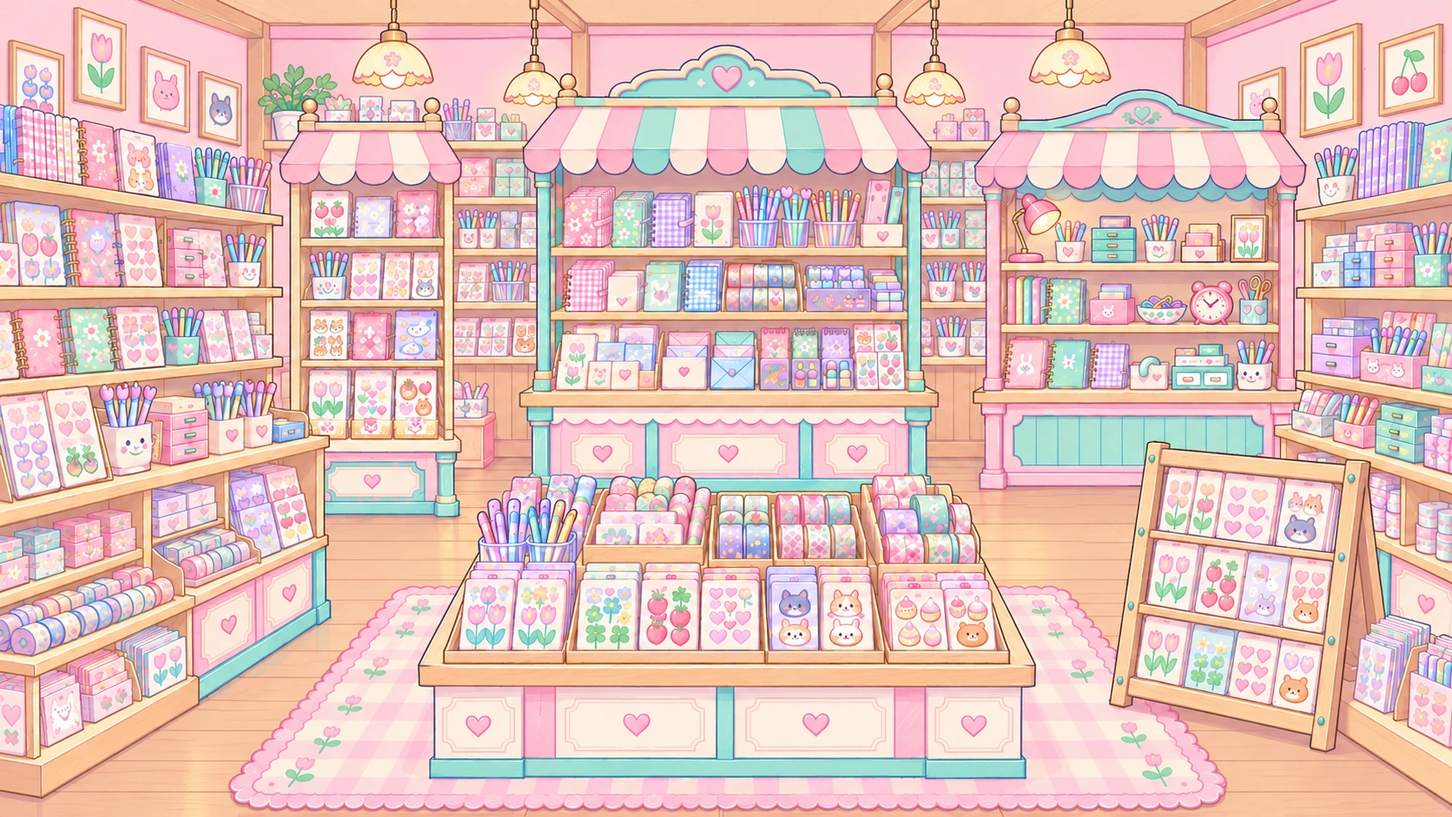
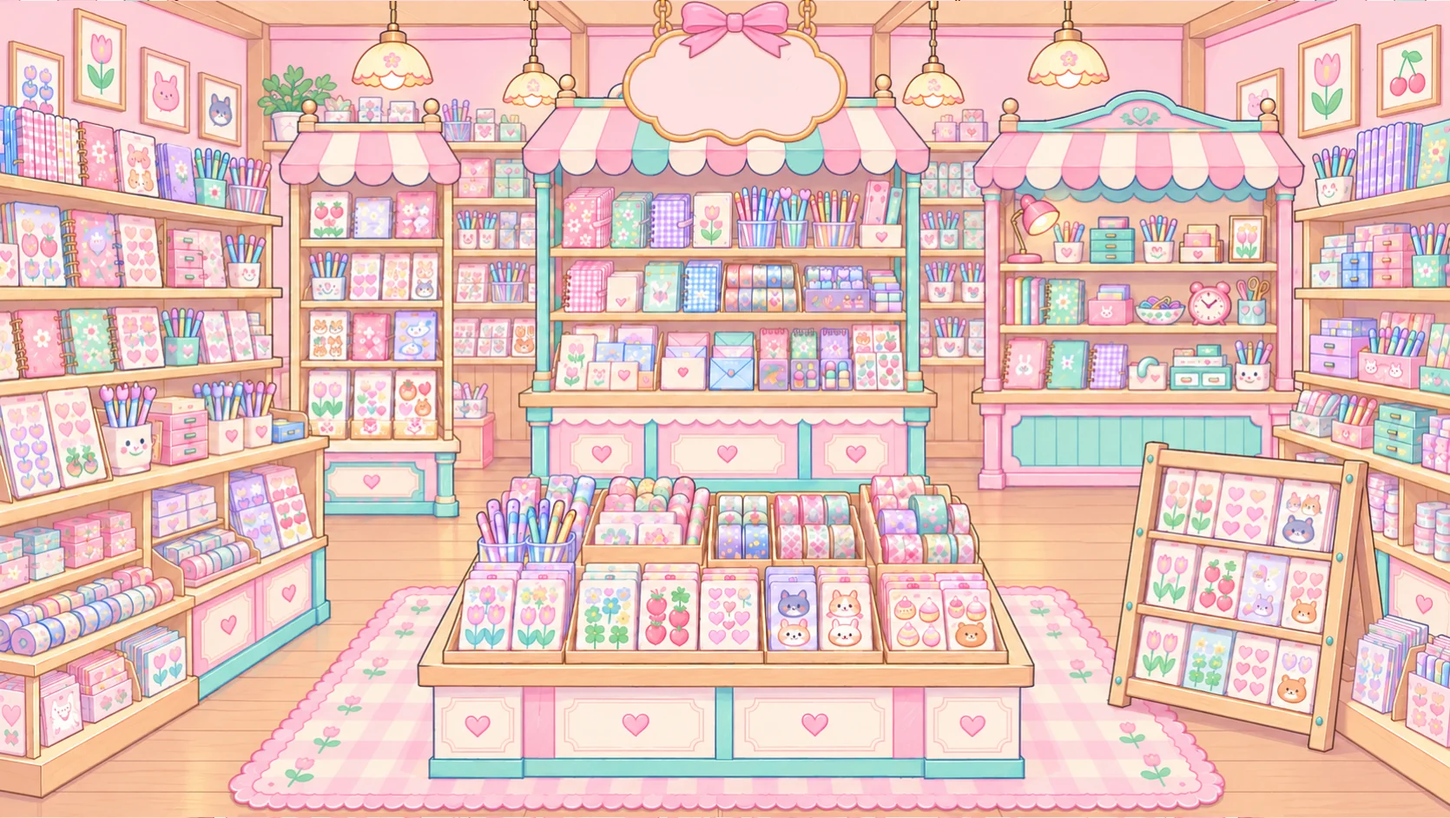
Add files via upload

diff --git a/index.html b/index.html
@@ -18,23 +18,23 @@
     <!-- html2canvas (PNG 저장용) -->
     <script src="https://cdnjs.cloudflare.com/ajax/libs/html2canvas/1.4.1/html2canvas.min.js"></script>
 
-    <script src="js/features.js?v=20261009-1131"></script>   <!-- 🔓 기능 공개 스위치 (다른 것보다 먼저) -->
-    <script src="js/util.js?v=20261009-1131"></script>   <!-- 🧰 공용 도구 (htmlEsc · josa · lsGet · lsSet) -->
-    <script src="js/onlyone.js?v=20261009-1131"></script>   <!-- 🔒 한 기기에 다이어리 하나만 (먼저 연 창만 · 다른 것보다 먼저) -->
+    <script src="js/features.js?v=20261009-1132"></script>   <!-- 🔓 기능 공개 스위치 (다른 것보다 먼저) -->
+    <script src="js/util.js?v=20261009-1132"></script>   <!-- 🧰 공용 도구 (htmlEsc · josa · lsGet · lsSet) -->
+    <script src="js/onlyone.js?v=20261009-1132"></script>   <!-- 🔒 한 기기에 다이어리 하나만 (먼저 연 창만 · 다른 것보다 먼저) -->
     <link rel="preload" as="image" href="img/gate-wide.webp?v=20261009-819" media="(min-aspect-ratio: 1/1)">   <!-- 🚪 로그인 문 그림을 먼저 받아요 (켤 때 바탕색만 잠깐 보이는 것 줄이기 · 도련 10-29) -->
     <link rel="preload" as="image" href="img/gate-tall.webp?v=20261009-819" media="(max-aspect-ratio: 1/1)">
-    <link rel="stylesheet" href="css/style.css?v=20261009-1131">
-    <link rel="stylesheet" href="css/dakku.css?v=20261009-1131">
-    <link rel="stylesheet" href="css/anime.css?v=20261009-1131">
-    <link rel="stylesheet" href="css/calroom.css?v=20261009-1131">   <!-- 📅 달력 (💻 📲 · js/calroom.js) -->   <!-- 🎬 애니 스타일 (맨 뒤 · js/anime.js) -->
-    <link rel="stylesheet" href="css/postroom.css?v=20261009-1131">   <!-- 📮 우체통 (💻 📲 · js/postroom.js) -->
-    <link rel="stylesheet" href="css/world.css?v=20261009-1131">   <!-- 🌳 말랑 광장 (임시 2.5D · js/world.js) -->
-    <link rel="stylesheet" href="css/deskgd.css?v=20261009-1131">   <!-- 🪑 책상 모드 문구 (js/deskgd.js) -->
-    <link rel="stylesheet" href="css/craft.css?v=20261009-1131">   <!-- 🎨 다꾸 작업실 (js/craft.js) -->
-    <link rel="stylesheet" href="css/tarotroom.css?v=20261009-1131">   <!-- 🔮 타로카페 (💻 📲 · js/tarotroom.js) -->
-    <link rel="stylesheet" href="css/arcroom.css?v=20261009-1131">   <!-- 🕹 뿅뿅오락실 장소 (💻 📲 · js/arcroom.js) -->
-    <link rel="stylesheet" href="css/gachascene.css?v=20261009-1131">   <!-- 🏪 문방구 앞 캡슐기계 (💻 📲 · js/gacha.js gcSceneBuild) -->
-    <link rel="stylesheet" href="css/stktray.css?v=20261009-1131">   <!-- 🍽 오늘 쓸 스티커 (js/stktray.js) -->
+    <link rel="stylesheet" href="css/style.css?v=20261009-1132">
+    <link rel="stylesheet" href="css/dakku.css?v=20261009-1132">
+    <link rel="stylesheet" href="css/anime.css?v=20261009-1132">
+    <link rel="stylesheet" href="css/calroom.css?v=20261009-1132">   <!-- 📅 달력 (💻 📲 · js/calroom.js) -->   <!-- 🎬 애니 스타일 (맨 뒤 · js/anime.js) -->
+    <link rel="stylesheet" href="css/postroom.css?v=20261009-1132">   <!-- 📮 우체통 (💻 📲 · js/postroom.js) -->
+    <link rel="stylesheet" href="css/world.css?v=20261009-1132">   <!-- 🌳 말랑 광장 (임시 2.5D · js/world.js) -->
+    <link rel="stylesheet" href="css/deskgd.css?v=20261009-1132">   <!-- 🪑 책상 모드 문구 (js/deskgd.js) -->
+    <link rel="stylesheet" href="css/craft.css?v=20261009-1132">   <!-- 🎨 다꾸 작업실 (js/craft.js) -->
+    <link rel="stylesheet" href="css/tarotroom.css?v=20261009-1132">   <!-- 🔮 타로카페 (💻 📲 · js/tarotroom.js) -->
+    <link rel="stylesheet" href="css/arcroom.css?v=20261009-1132">   <!-- 🕹 뿅뿅오락실 장소 (💻 📲 · js/arcroom.js) -->
+    <link rel="stylesheet" href="css/gachascene.css?v=20261009-1132">   <!-- 🏪 문방구 앞 캡슐기계 (💻 📲 · js/gacha.js gcSceneBuild) -->
+    <link rel="stylesheet" href="css/stktray.css?v=20261009-1132">   <!-- 🍽 오늘 쓸 스티커 (js/stktray.js) -->
     <script src="https://accounts.google.com/gsi/client" async defer></script>
 </head>
 <body>
@@ -990,120 +990,120 @@
     </div>
 
     <!-- 📦 코드 파일 (순서 중요 · 업데이트할 때 ?v= 뒤 숫자를 바꾸면 모든 사용자가 새 파일을 받아요) -->
-    <script src="js/localtest.js?v=20261009-1131"></script>   <!-- 💻 내 컴퓨터(localhost)에서만 : 로그인 없이 테스트 -->
-    <script src="js/trash.js?v=20261009-1131"></script>   <!-- 🗑 휴지통 : 지운 것 · 덮어쓰기 전 모습 30일 -->
-    <script src="js/backup.js?v=20261009-1131"></script>   <!-- 📦 백업 · 📥 불러오기 : 말랑달콤 폴더 통째로 zip -->
-    <script src="js/devsave.js?v=20261009-1131"></script>   <!-- 📁 로그인 없이 : 이 기기의 말랑달콤 폴더에 저장 -->
+    <script src="js/localtest.js?v=20261009-1132"></script>   <!-- 💻 내 컴퓨터(localhost)에서만 : 로그인 없이 테스트 -->
+    <script src="js/trash.js?v=20261009-1132"></script>   <!-- 🗑 휴지통 : 지운 것 · 덮어쓰기 전 모습 30일 -->
+    <script src="js/backup.js?v=20261009-1132"></script>   <!-- 📦 백업 · 📥 불러오기 : 말랑달콤 폴더 통째로 zip -->
+    <script src="js/devsave.js?v=20261009-1132"></script>   <!-- 📁 로그인 없이 : 이 기기의 말랑달콤 폴더에 저장 -->
     <script src="https://malang-img.pages.dev/prod.js"></script>   <!-- 🧁 상품 목록 (상품공방 · 서버) -->
-    <script src="js/prod.js?v=20261009-1131"></script>   <!-- 🧁 상품 목록 읽기 (prodList) -->
-    <script src="js/gdpic.js?v=20261009-1131"></script>   <!-- 🧁 문구 그림 = 상품공방 그림 + 속성 그대로 (gdPic · 앱은 모양을 그리지 않아요) -->
-    <script src="js/drive.js?v=20261009-1131"></script>
-    <script src="js/desk.js?v=20261009-1131"></script>   <!-- 🪑 책상 꾸미기 (💻 PC · 아이패드만) -->
-    <script src="js/deskpaint.js?v=20261009-1131"></script>
-    <script src="js/deskcustom.js?v=20261009-1131"></script>   <!-- 🎨 소품 꾸미기 창 (색칠 + 불빛 · 숫자 · 알람 · 사진 · 누르는 곳) -->   <!-- 🎨 책상 소품 꾸미기 (칠하기 · 이미지 붙이기) -->
-    <script src="js/coll.js?v=20261009-1131"></script>
-    <script src="js/snap.js?v=20261009-1131"></script>   <!-- 📦 받은 상품 사본 (드라이브 · 새 모습 · 꼭 고침) -->
-    <script src="js/sound.js?v=20261009-1131"></script>
-    <script src="js/app.js?v=20261009-1131"></script>
-    <script src="js/page.js?v=20261009-1131"></script>
-    <script src="js/elements.js?v=20261009-1131"></script>
-    <script src="js/tapmenu.js?v=20261009-1131"></script>
-    <script src="js/settings.js?v=20261009-1131"></script>
-    <script src="js/patterns.js?v=20261009-1131"></script>
+    <script src="js/prod.js?v=20261009-1132"></script>   <!-- 🧁 상품 목록 읽기 (prodList) -->
+    <script src="js/gdpic.js?v=20261009-1132"></script>   <!-- 🧁 문구 그림 = 상품공방 그림 + 속성 그대로 (gdPic · 앱은 모양을 그리지 않아요) -->
+    <script src="js/drive.js?v=20261009-1132"></script>
+    <script src="js/desk.js?v=20261009-1132"></script>   <!-- 🪑 책상 꾸미기 (💻 PC · 아이패드만) -->
+    <script src="js/deskpaint.js?v=20261009-1132"></script>
+    <script src="js/deskcustom.js?v=20261009-1132"></script>   <!-- 🎨 소품 꾸미기 창 (색칠 + 불빛 · 숫자 · 알람 · 사진 · 누르는 곳) -->   <!-- 🎨 책상 소품 꾸미기 (칠하기 · 이미지 붙이기) -->
+    <script src="js/coll.js?v=20261009-1132"></script>
+    <script src="js/snap.js?v=20261009-1132"></script>   <!-- 📦 받은 상품 사본 (드라이브 · 새 모습 · 꼭 고침) -->
+    <script src="js/sound.js?v=20261009-1132"></script>
+    <script src="js/app.js?v=20261009-1132"></script>
+    <script src="js/page.js?v=20261009-1132"></script>
+    <script src="js/elements.js?v=20261009-1132"></script>
+    <script src="js/tapmenu.js?v=20261009-1132"></script>
+    <script src="js/settings.js?v=20261009-1132"></script>
+    <script src="js/patterns.js?v=20261009-1132"></script>
     <!-- 🌟 카페에서 받아 등록한 사용자 패턴 (pattern-tool.html 로 만들어요 · 없거나 깨져도 다이어리는 정상 동작) -->
     <script src="js/community-patterns.js"></script>
     <!-- 🌟 카페에서 받아 등록한 모두의 스킨 (pattern-tool.html 로 만들어요 · 없거나 깨져도 다이어리는 정상 동작) -->
     <script src="js/community-skins.js"></script>
-    <script src="js/pattern-recipe.js?v=20261009-1131"></script>
-    <script src="js/skins.js?v=20261009-1131"></script>
-    <script src="js/bin.js?v=20261009-1131"></script>   <!-- 🗑 버린 상품 : 휴지통 30일 · 되살리기 · 영구 삭제 (모든 상품 공통) -->
-    <script src="js/dyyear.js?v=20261009-1131"></script>
-    <script src="js/bgown.js?v=20261009-1131"></script>
-    <script src="js/deskskin.js?v=20261009-1131"></script>   <!-- 🧱 벽지 · 🪵 책상 (책상 화면 · 샵 책상 소품 · 소품함) -->   <!-- 🌈 배경지 = 상품 (샵에서 받기 · 보관함 · 버리기) -->   <!-- 📔 기본 다이어리 = 1년짜리 날짜 다이어리 · 해마다 기본상품 샵에서 받기 · 다이어리 보관소 -->
-    <script src="js/dkguide.js?v=20261009-1131"></script>   <!-- 🩷 처음 쓰는 사람용 다꾸하는 법 메모 -->
-    <script src="js/dymaker.js?v=20261009-1131"></script>
-    <script src="js/pattern-maker.js?v=20261009-1131"></script>
-    <script src="js/skinstudio.js?v=20261009-1131"></script>
-    <script src="js/theme-skins.js?v=20261009-1131"></script>
-    <script src="js/doll-art.js?v=20261009-1131"></script>
-    <script src="js/doll-render.js?v=20261009-1131"></script>
-    <script src="js/doll-store.js?v=20261009-1131"></script>
-    <script src="js/doll-room.js?v=20261009-1131"></script>
-    <script src="js/doll-move.js?v=20261009-1131"></script>
-    <script src="js/glrun.js?v=20261009-1131"></script>
-    <script src="js/char-move.js?v=20261009-1131"></script>
-    <script src="js/puppet.js?v=20261009-1131"></script>
-    <script src="js/service.js?v=20261009-1131"></script>
+    <script src="js/pattern-recipe.js?v=20261009-1132"></script>
+    <script src="js/skins.js?v=20261009-1132"></script>
+    <script src="js/bin.js?v=20261009-1132"></script>   <!-- 🗑 버린 상품 : 휴지통 30일 · 되살리기 · 영구 삭제 (모든 상품 공통) -->
+    <script src="js/dyyear.js?v=20261009-1132"></script>
+    <script src="js/bgown.js?v=20261009-1132"></script>
+    <script src="js/deskskin.js?v=20261009-1132"></script>   <!-- 🧱 벽지 · 🪵 책상 (책상 화면 · 샵 책상 소품 · 소품함) -->   <!-- 🌈 배경지 = 상품 (샵에서 받기 · 보관함 · 버리기) -->   <!-- 📔 기본 다이어리 = 1년짜리 날짜 다이어리 · 해마다 기본상품 샵에서 받기 · 다이어리 보관소 -->
+    <script src="js/dkguide.js?v=20261009-1132"></script>   <!-- 🩷 처음 쓰는 사람용 다꾸하는 법 메모 -->
+    <script src="js/dymaker.js?v=20261009-1132"></script>
+    <script src="js/pattern-maker.js?v=20261009-1132"></script>
+    <script src="js/skinstudio.js?v=20261009-1132"></script>
+    <script src="js/theme-skins.js?v=20261009-1132"></script>
+    <script src="js/doll-art.js?v=20261009-1132"></script>
+    <script src="js/doll-render.js?v=20261009-1132"></script>
+    <script src="js/doll-store.js?v=20261009-1132"></script>
+    <script src="js/doll-room.js?v=20261009-1132"></script>
+    <script src="js/doll-move.js?v=20261009-1132"></script>
+    <script src="js/glrun.js?v=20261009-1132"></script>
+    <script src="js/char-move.js?v=20261009-1132"></script>
+    <script src="js/puppet.js?v=20261009-1132"></script>
+    <script src="js/service.js?v=20261009-1132"></script>
     <!-- 🎁 랜덤박스 (없어도 다이어리는 정상 동작) -->
-    <script src="js/gacha.js?v=20261009-1131"></script>
-    <script src="js/presence.js?v=20261009-1131"></script>
-    <script src="js/fbase.js?v=20261009-1131"></script>   <!-- 🔥 파이어스토어 연결 (🔔 선물 벨 · 📞 전화기) -->
-    <script src="js/fphone.js?v=20261009-1131"></script>   <!-- 📞 반짝이 피처폰 메신저 (로그인 회원끼리) -->
+    <script src="js/gacha.js?v=20261009-1132"></script>
+    <script src="js/presence.js?v=20261009-1132"></script>
+    <script src="js/fbase.js?v=20261009-1132"></script>   <!-- 🔥 파이어스토어 연결 (🔔 선물 벨 · 📞 전화기) -->
+    <script src="js/fphone.js?v=20261009-1132"></script>   <!-- 📞 반짝이 피처폰 메신저 (로그인 회원끼리) -->
     <!-- 🎵 배경음악 (없어도 다이어리는 정상 동작) -->
-    <script src="js/bgm.js?v=20261009-1131"></script>
+    <script src="js/bgm.js?v=20261009-1132"></script>
     <!-- 🔮 포춘카드 (없어도 다이어리는 정상 동작) -->
-    <script src="js/fortune.js?v=20261009-1131"></script>
+    <script src="js/fortune.js?v=20261009-1132"></script>
     <!-- 🕹 오락실 (없어도 다이어리는 정상 동작) -->
-    <script src="js/arcade.js?v=20261009-1131"></script>
-    <script src="js/hof.js?v=20261009-1131"></script>
+    <script src="js/arcade.js?v=20261009-1132"></script>
+    <script src="js/hof.js?v=20261009-1132"></script>
     <!-- 🌙 꿈해몽 (상징 사전 js/dream-data.js 는 꿈해몽을 열 때 불러와요 · 없어도 다이어리는 정상 동작) -->
-    <script src="js/ritual.js?v=20261009-1131"></script>
-    <script src="js/dream.js?v=20261009-1131"></script>
+    <script src="js/ritual.js?v=20261009-1132"></script>
+    <script src="js/dream.js?v=20261009-1132"></script>
     <!-- 🎍 토정비결 (음력 계산 js/lib/korean-lunar-calendar.min.js 는 토정비결을 열 때 불러와요 · 없어도 다이어리는 정상 동작) -->
-    <script src="js/tojeong.js?v=20261009-1131"></script>
-    <script src="js/plant.js?v=20261009-1131"></script>
-    <script src="js/attend.js?v=20261009-1131"></script>
-    <script src="js/tape.js?v=20261009-1131"></script>
-    <script src="js/leafpad.js?v=20261009-1131"></script>
-    <script src="js/leafmaker.js?v=20261009-1131"></script>
-    <script src="js/draw.js?v=20261009-1131"></script>
-    <script src="js/pencase.js?v=20261009-1131"></script>
-    <script src="js/frame.js?v=20261009-1131"></script>
-    <script src="js/season.js?v=20261009-1131"></script>
-    <script src="js/lock.js?v=20261009-1131"></script>
-    <script src="js/cycle.js?v=20261009-1131"></script>
-    <script src="js/month.js?v=20261009-1131"></script>
-    <script src="js/stamp.js?v=20261009-1131"></script>
-    <script src="js/search.js?v=20261009-1131"></script>
-    <script src="js/dday.js?v=20261009-1131"></script>
-    <script src="js/calroom.js?v=20261009-1131"></script>   <!-- 📅 달력 : 출석 · 생리 · D-day 한 장 (💻 📲) -->
-    <script src="js/postroom.js?v=20261009-1131"></script>   <!-- 📮 우체통 : 익명 편지함 · 건의함 (💻 📲) -->
-    <script src="js/world.js?v=20261009-1131"></script>   <!-- 🌳 말랑 광장 : 임시 2.5D 월드 · 혼자 걷기 (features world) -->
-    <script src="js/deskgd.js?v=20261009-1131"></script>   <!-- 🪑 책상 모드 문구 : ✏ 펜꽂이가 다가와요 · 🗄 문구함 서랍 (💻 📲) -->
-    <script src="js/desktape.js?v=20261009-1131"></script>   <!-- 🎀 마테 정리함 : 마스킹테이프를 세워 두고 골라 써요 (💻 📲 책상) -->
-    <script src="js/desklights.js?v=20261009-1131"></script>   <!-- 💡 전구줄 : 출렁이는 줄 · 전구 · 빛 · 깜빡임 (책상 소품 lights) -->
-    <script src="js/craft.js?v=20261009-1131"></script>   <!-- 🎨 다꾸 작업실 : 스티커 · 배경지 만들기 한 곳에 (💻 📲 📱) -->
-    <script src="js/tarotroom.js?v=20261009-1131"></script>   <!-- 🔮 타로카페 : 카드 다섯 장 = 메뉴 (💻 📲) -->
-    <script src="js/arcroom.js?v=20261009-1131"></script>   <!-- 🕹 뿅뿅오락실 장소 : 오락기 화면마다 게임 (💻 📲) -->
-    <script src="js/show.js?v=20261009-1131"></script>
-    <script src="js/press.js?v=20261009-1131"></script>
-    <script src="js/photobooth.js?v=20261009-1131"></script>
-    <script src="js/stickermaker.js?v=20261009-1131"></script>
-    <script src="js/stickerpeel.js?v=20261009-1131"></script>
-    <script src="js/stkedit.js?v=20261009-1131"></script>   <!-- 🎨 스티커 다듬기 : 씰 종이에서 떼기 전에 색 · 뒤집기 · 자르기 · 지우개 · 글씨 · 반짝이 -->
-    <script src="js/stkcut.js?v=20261009-1131"></script>   <!-- ✂ 스티커 자르기 : 꾹 누르기 메뉴 → 스티커 칼로 가로질러 그어 두 조각 -->
-    <script src="js/ruler.js?v=20261009-1131"></script>   <!-- 📏 자 : 펜꽂이에서 뽑아 페이지에 깔아 둬요 · 칼 · 색연필을 대면 반듯하게 · 진짜 cm -->
-    <script src="js/piecebag.js?v=20261009-1131"></script>
-    <script src="js/dakku.js?v=20261009-1131"></script>
-    <script src="js/papermaker.js?v=20261009-1131"></script>
-    <script src="js/stk-basic.js?v=20261009-1131"></script>
-    <script src="js/peelfx.js?v=20261009-1131"></script>
-    <script src="js/tapemaker.js?v=20261009-1131"></script>
-    <script src="js/sharebox.js?v=20261009-1131"></script>
-    <script src="js/namematch.js?v=20261009-1131"></script>
-    <script src="js/psytest-data.js?v=20261009-1131"></script>
-    <script src="js/psytest.js?v=20261009-1131"></script>
-    <script src="js/letter.js?v=20261009-1131"></script>
-    <script src="js/install.js?v=20261009-1131"></script>
-    <script src="js/piggy.js?v=20261009-1131"></script>
-    <script src="js/wall.js?v=20261009-1131"></script>
-    <script src="js/arrival.js?v=20261009-1131"></script>
-    <script src="js/own.js?v=20261009-1131"></script>   <!-- 🎒 유한 스티커 : 내 종이 저장 · 한 번 쓰면 영원히 사라져요 -->
-    <script src="js/basket.js?v=20261009-1131"></script>   <!-- 🧺 내 바구니 · 🏪 기본상품 샵 -->
-    <script src="js/stktray.js?v=20261009-1131"></script>   <!-- 🍽 오늘 쓸 스티커 : 고르기 · 쟁반 (💻 📲 · 저장 안 함) -->
-    <script src="js/itemshare.js?v=20261009-1131"></script>   <!-- 📤 공유 파일로 저장 · 📥 불러오기 (받으면 그 계정의 새 1개) -->
-    <script src="js/shopscene.js?v=20261009-1131"></script>
-    <script src="js/anime.js?v=20261009-1131"></script>   <!-- 🎬 애니 스타일 : SVG 그림을 단색 · 파스텔 선으로 (css/anime.css) -->   <!-- 🏪 기본상품 샵 가게 (문 → 연핑크 → 가게 안) -->
+    <script src="js/tojeong.js?v=20261009-1132"></script>
+    <script src="js/plant.js?v=20261009-1132"></script>
+    <script src="js/attend.js?v=20261009-1132"></script>
+    <script src="js/tape.js?v=20261009-1132"></script>
+    <script src="js/leafpad.js?v=20261009-1132"></script>
+    <script src="js/leafmaker.js?v=20261009-1132"></script>
+    <script src="js/draw.js?v=20261009-1132"></script>
+    <script src="js/pencase.js?v=20261009-1132"></script>
+    <script src="js/frame.js?v=20261009-1132"></script>
+    <script src="js/season.js?v=20261009-1132"></script>
+    <script src="js/lock.js?v=20261009-1132"></script>
+    <script src="js/cycle.js?v=20261009-1132"></script>
+    <script src="js/month.js?v=20261009-1132"></script>
+    <script src="js/stamp.js?v=20261009-1132"></script>
+    <script src="js/search.js?v=20261009-1132"></script>
+    <script src="js/dday.js?v=20261009-1132"></script>
+    <script src="js/calroom.js?v=20261009-1132"></script>   <!-- 📅 달력 : 출석 · 생리 · D-day 한 장 (💻 📲) -->
+    <script src="js/postroom.js?v=20261009-1132"></script>   <!-- 📮 우체통 : 익명 편지함 · 건의함 (💻 📲) -->
+    <script src="js/world.js?v=20261009-1132"></script>   <!-- 🌳 말랑 광장 : 임시 2.5D 월드 · 혼자 걷기 (features world) -->
+    <script src="js/deskgd.js?v=20261009-1132"></script>   <!-- 🪑 책상 모드 문구 : ✏ 펜꽂이가 다가와요 · 🗄 문구함 서랍 (💻 📲) -->
+    <script src="js/desktape.js?v=20261009-1132"></script>   <!-- 🎀 마테 정리함 : 마스킹테이프를 세워 두고 골라 써요 (💻 📲 책상) -->
+    <script src="js/desklights.js?v=20261009-1132"></script>   <!-- 💡 전구줄 : 출렁이는 줄 · 전구 · 빛 · 깜빡임 (책상 소품 lights) -->
+    <script src="js/craft.js?v=20261009-1132"></script>   <!-- 🎨 다꾸 작업실 : 스티커 · 배경지 만들기 한 곳에 (💻 📲 📱) -->
+    <script src="js/tarotroom.js?v=20261009-1132"></script>   <!-- 🔮 타로카페 : 카드 다섯 장 = 메뉴 (💻 📲) -->
+    <script src="js/arcroom.js?v=20261009-1132"></script>   <!-- 🕹 뿅뿅오락실 장소 : 오락기 화면마다 게임 (💻 📲) -->
+    <script src="js/show.js?v=20261009-1132"></script>
+    <script src="js/press.js?v=20261009-1132"></script>
+    <script src="js/photobooth.js?v=20261009-1132"></script>
+    <script src="js/stickermaker.js?v=20261009-1132"></script>
+    <script src="js/stickerpeel.js?v=20261009-1132"></script>
+    <script src="js/stkedit.js?v=20261009-1132"></script>   <!-- 🎨 스티커 다듬기 : 씰 종이에서 떼기 전에 색 · 뒤집기 · 자르기 · 지우개 · 글씨 · 반짝이 -->
+    <script src="js/stkcut.js?v=20261009-1132"></script>   <!-- ✂ 스티커 자르기 : 꾹 누르기 메뉴 → 스티커 칼로 가로질러 그어 두 조각 -->
+    <script src="js/ruler.js?v=20261009-1132"></script>   <!-- 📏 자 : 펜꽂이에서 뽑아 페이지에 깔아 둬요 · 칼 · 색연필을 대면 반듯하게 · 진짜 cm -->
+    <script src="js/piecebag.js?v=20261009-1132"></script>
+    <script src="js/dakku.js?v=20261009-1132"></script>
+    <script src="js/papermaker.js?v=20261009-1132"></script>
+    <script src="js/stk-basic.js?v=20261009-1132"></script>
+    <script src="js/peelfx.js?v=20261009-1132"></script>
+    <script src="js/tapemaker.js?v=20261009-1132"></script>
+    <script src="js/sharebox.js?v=20261009-1132"></script>
+    <script src="js/namematch.js?v=20261009-1132"></script>
+    <script src="js/psytest-data.js?v=20261009-1132"></script>
+    <script src="js/psytest.js?v=20261009-1132"></script>
+    <script src="js/letter.js?v=20261009-1132"></script>
+    <script src="js/install.js?v=20261009-1132"></script>
+    <script src="js/piggy.js?v=20261009-1132"></script>
+    <script src="js/wall.js?v=20261009-1132"></script>
+    <script src="js/arrival.js?v=20261009-1132"></script>
+    <script src="js/own.js?v=20261009-1132"></script>   <!-- 🎒 유한 스티커 : 내 종이 저장 · 한 번 쓰면 영원히 사라져요 -->
+    <script src="js/basket.js?v=20261009-1132"></script>   <!-- 🧺 내 바구니 · 🏪 기본상품 샵 -->
+    <script src="js/stktray.js?v=20261009-1132"></script>   <!-- 🍽 오늘 쓸 스티커 : 고르기 · 쟁반 (💻 📲 · 저장 안 함) -->
+    <script src="js/itemshare.js?v=20261009-1132"></script>   <!-- 📤 공유 파일로 저장 · 📥 불러오기 (받으면 그 계정의 새 1개) -->
+    <script src="js/shopscene.js?v=20261009-1132"></script>
+    <script src="js/anime.js?v=20261009-1132"></script>   <!-- 🎬 애니 스타일 : SVG 그림을 단색 · 파스텔 선으로 (css/anime.css) -->   <!-- 🏪 기본상품 샵 가게 (문 → 연핑크 → 가게 안) -->
 
     <!-- 🛡 파일 누락 확인 : 하나라도 못 읽었으면 다이어리를 시작하지 않아서 잘못된 저장을 막아요 -->
     <script>

diff --git a/js/shopscene.js b/js/shopscene.js
@@ -7,7 +7,7 @@
    - 🚪 이동 (오른쪽 위 · 도련 10-31) → 이동 창 (js/desk.js deskMoveOpen) 의 🚪 내 방 = 내 방 문(img/room-door.webp)을 지나 책상으로 (도련 10-30) · ▤ 하단 메뉴 화면에서는 예전처럼 기본상품 샵 창 (js/basket.js openShelf)
    - 💻 PC · 아이패드만 (도련 10-27 · html.desk-on = 화면 짧은 쪽 600px 이상 + 🪑 책상 화면) · 📱 폰 · 하단 메뉴 화면은 늘 예전 기본상품 샵 창 · 가게 안에서 화면이 좁아지면 가게를 닫고 기본상품 샵 창으로 */
 
-        const SHOP_W = 1672, SHOP_H = 941, DOOR_W = 1672, DOOR_H = 941;
+        const DOOR_W = 1672, DOOR_H = 941;
         const SHOP_SIGN = { cx: 835, cy: 431, w: 393, h: 148 };                   // 문 알림판 안쪽 (그림 px · 10-28 새 그림)
         const SHOP_SPOTS = [                                                      // [종류, 이름, x, y] 가게 그림 px (진열대마다)
             ['seal', '씰스티커', 640, 690], ['piece', '조각스티커', 850, 690], ['paper', '모조지스티커', 1060, 690],
@@ -17,13 +17,14 @@
         ];   // 📔 다이어리 · ✂ 문구용품 · 🪑 책상소품 = 그 코너로 · 그 밖 = 그 상품 창 ('종류:칸' = 그 칸만)
         const SHOP_ICON = { gd: '✂', 'bg:solid': '🎨', 'bg:pat': '☁', season: '🌸' };   // 🪑 책상소품 = basket.js stkArt('desk') 그림 (도련 11-04)
         /* 🏪 코너 (도련 11-04 : 문을 열면 스티커 코너 · 옆으로 다이어리 · 문구 · 책상소품 코너 = 현실 가게처럼 구경) : 코너 그림 위에 칸(js/basket.js shCatList)마다 아이콘 · 왼쪽 위 ‹ 스티커 코너
-           ⚠ 코너 그림 3장은 도련이 만드는 중 → 지금은 가게 안 그림을 같이 써요 (그림이 오면 img · 자리만 바꿔요) · 자리 = 그림 px · 표에 없는 새 칸은 아래 줄에 차례로 놓고 콘솔에 알려요 */
+           그림마다 위 가운데 구름 간판 = 코너 이름 (글씨는 앱이 써요 · sign = 간판 안쪽 [가운데 x, y, 폭, 높이] 그림 px) · 자리 = 그림 px · 표에 없는 새 칸은 아래 줄에 차례로 놓고 콘솔에 알려요 */
+        const SHOP_MAIN = { n: '스티커 코너', img: 'img/shop-inside.webp?v=20261009-1132', W: 1670, H: 942, sign: [846, 98, 215, 80] };
         const SHOP_CORNERS = {
-            tool: { n: '📔 다이어리 코너', img: 'img/shop-inside.webp?v=20261009-815', at: { dy: [430, 330], bd: [835, 330], rl: [1235, 330] } },
-            gd: { n: '✂ 문구 코너', img: 'img/shop-inside.webp?v=20261009-815', at: { tweez: [300, 300], clip: [520, 300], punch: [760, 300], tape: [1000, 300], scissors: [1240, 300], knife: [1440, 300], ruler: [430, 560], pen: [835, 560] } },
-            desk: { n: '🪑 책상소품 코너', img: 'img/shop-inside.webp?v=20261009-815', at: { desk: [430, 330], wall: [1235, 330], wallpaper: [640, 650], desktop: [1060, 650] } }
+            tool: { n: '다이어리 코너', img: 'img/shop-diary.webp?v=20261009-1132', W: 1670, H: 942, sign: [842, 132, 250, 100], at: { dy: [800, 450], bd: [570, 610], rl: [1075, 610] } },
+            gd: { n: '문구 코너', img: 'img/shop-gd.webp?v=20261009-1132', W: 1670, H: 942, sign: [848, 122, 230, 90],
+                at: { pen: [430, 300], knife: [740, 300], tweez: [1000, 300], clip: [1300, 300], tape: [430, 600], scissors: [760, 600], punch: [1060, 600], ruler: [1270, 600] } },
+            desk: { n: '책상소품 코너', img: 'img/shop-desk.webp?v=20261009-1132', W: 1670, H: 942, sign: [838, 118, 230, 90], at: { desk: [680, 290], wall: [1490, 410], wallpaper: [300, 150], desktop: [840, 630] } }
         };
-        const SHOP_MAIN_IMG = 'img/shop-inside.webp?v=20261009-815';
         const HOME_SIGN = { cx: 836, cy: 490, w: 420, h: 200 };                   // 🚪 내 방 문 타원 판 안쪽 (img/room-door.webp px · 도련 10-30)
         const SC = { on: false, busy: false, corner: '', spots: [] };
 
@@ -31,8 +32,8 @@
         function shopBuild() {
             let el = document.getElementById('shopScene'); if (el) return el;
             el = document.createElement('div'); el.id = 'shopScene'; el.className = 'shop-scene';
-            el.innerHTML = `<div class="shop-in"><img class="shop-room" src="${SHOP_MAIN_IMG}" alt="" draggable="false"><div class="shop-spots"></div></div>
-                <button type="button" class="shop-back" onclick="shopCorner('')">‹ 스티커 코너</button><div class="shop-ttl"></div>
+            el.innerHTML = `<div class="shop-in"><img class="shop-room" src="${SHOP_MAIN.img}" alt="" draggable="false"><div class="shop-cs"><b></b></div><div class="shop-spots"></div></div>
+                <button type="button" class="shop-back" onclick="shopCorner('')">‹ 스티커 코너</button>
                 <div class="shop-door"><img src="img/shop-door.webp?v=20261009-819" alt="" draggable="false"><div class="shop-sign"><b>기본상품 샵</b><small>말랑달콤</small></div></div>
                 <div class="shop-home"><img src="img/room-door.webp?v=20261009-923" alt="" draggable="false"><div class="shop-sign home"><b>내 방</b></div></div>
                 <button type="button" class="shop-x" onclick="deskMoveOpen()">이동</button>`;
@@ -51,8 +52,8 @@
                 SC.spots = SHOP_SPOTS.filter(s => s[0] !== 'season' || season).map(([k, n, x, y]) => [k, n, x, y, SHOP_ICON[k] || (window.stkArt ? stkArt(k) : '')]);
             }
             box.innerHTML = SC.spots.map(([k, n, , , ic]) => `<button type="button" class="shop-spot" data-k="${k}" onclick="shopSpot('${k}')"><i class="shop-ic">${ic}</i><b>${n}</b></button>`).join('');
-            const room = el.querySelector('.shop-room'), src = C ? C.img : SHOP_MAIN_IMG; if (room.getAttribute('src') !== src) room.setAttribute('src', src);
-            el.classList.toggle('corner', !!C); el.querySelector('.shop-ttl').textContent = C ? C.n : '';
+            const room = el.querySelector('.shop-room'), src = (C || SHOP_MAIN).img; if (room.getAttribute('src') !== src) room.setAttribute('src', src);
+            el.classList.toggle('corner', !!C); el.querySelector('.shop-cs b').textContent = (C || SHOP_MAIN).n;   // 🪧 간판 = 코너 이름
         }
         /* 🚶 코너 옮기기 ('' = 스티커 코너 · 입구) : 살짝 어두워졌다 그 코너로 */
         function shopCorner(k) {
@@ -64,8 +65,9 @@
         }
         function shopFit() {
             const el = document.getElementById('shopScene'); if (!el) return;
-            const R = shopCover(SHOP_W, SHOP_H), room = el.querySelector('.shop-room');
-            room.style.width = SHOP_W * R.s + 'px'; room.style.height = SHOP_H * R.s + 'px'; room.style.left = R.x + 'px'; room.style.top = R.y + 'px';
+            const A = SHOP_CORNERS[SC.corner] || SHOP_MAIN, R = shopCover(A.W, A.H), room = el.querySelector('.shop-room'), cs = el.querySelector('.shop-cs');
+            room.style.width = A.W * R.s + 'px'; room.style.height = A.H * R.s + 'px'; room.style.left = R.x + 'px'; room.style.top = R.y + 'px';
+            const [sx, sy, sw, sh] = A.sign; Object.assign(cs.style, { left: R.x + sx * R.s + 'px', top: R.y + sy * R.s + 'px', width: sw * R.s + 'px', height: sh * R.s + 'px', fontSize: Math.min(sh * .44, sw / Math.max(4, cs.textContent.length) * 1.05) * R.s + 'px' });   // 🪧 글씨가 간판 안에 들어가게
             el.querySelectorAll('.shop-spot').forEach(b => {
                 const sp = SC.spots.find(s => s[0] === b.dataset.k); if (!sp) return;
                 const w = b.offsetWidth || 90, h = b.offsetHeight || 60, M = 10;

diff --git a/css/style.css b/css/style.css
@@ -4300,11 +4300,12 @@ html.desk-edit .dke-tray { flex-direction: column; align-items: stretch !importa
 .shop-x { position: absolute; right: 14px; top: 14px; z-index: 3; width: 44px; height: 44px; border-radius: 50%; border: 2px solid #e9a8bd; background: #fff; color: #d94f7a; font-size: 18px; font-weight: 900; cursor: pointer; box-shadow: 0 3px 10px rgba(150, 70, 100, .25); }
 .shop-scene:not(.inside) .shop-x { opacity: 0; pointer-events: none; }
 @media (prefers-reduced-motion: reduce) { .shop-spot { animation: none; } }
-/* 🏪 코너 (도련 11-04 · js/shopscene.js shopCorner) : 왼쪽 위 ‹ 스티커 코너 · 가운데 위 코너 이름 · 옮길 때 살짝 어두워졌다가 */
+/* 🏪 코너 (도련 11-04 · js/shopscene.js shopCorner) : 왼쪽 위 ‹ 스티커 코너 · 그림 위 구름 간판 = 코너 이름 (.shop-cs) · 옮길 때 살짝 어두워졌다가 */
+.shop-cs { position: absolute; translate: -50% -50%; display: flex; align-items: center; justify-content: center; pointer-events: none; }
+.shop-cs b { font-family: 'Jua', 'Gowun Dodum', sans-serif; font-weight: 400; color: #d94f7a; letter-spacing: .04em; line-height: 1; white-space: nowrap; text-shadow: 0 2px 0 #fff, 0 0 8px rgba(255, 255, 255, .9); }
 .shop-back { position: absolute; left: 14px; top: 14px; z-index: 3; padding: 9px 16px; border-radius: 999px; border: 2px solid #e9a8bd; background: #fff; color: #d94f7a; font: inherit; font-size: 15px; font-weight: 900; white-space: nowrap; cursor: pointer; box-shadow: 0 3px 10px rgba(150, 70, 100, .25); }
 .shop-back:hover { background: #fff0f5; }
-.shop-ttl { position: absolute; left: 50%; top: 16px; z-index: 3; translate: -50% 0; padding: 7px 18px; border-radius: 999px; border: 2px solid #f3b6c9; background: rgba(255, 255, 255, .92); color: #b23f6c; font-size: 15px; font-weight: 900; white-space: nowrap; pointer-events: none; }
-.shop-scene:not(.corner) .shop-back, .shop-scene:not(.corner) .shop-ttl, .shop-scene:not(.inside) .shop-back, .shop-scene:not(.inside) .shop-ttl, .shop-scene.home .shop-back, .shop-scene.home .shop-ttl { display: none; }
+.shop-scene:not(.corner) .shop-back, .shop-scene:not(.inside) .shop-back, .shop-scene.home .shop-back { display: none; }
 .shop-in::after { content: ''; position: absolute; inset: 0; background: #fff4f8; opacity: 0; pointer-events: none; transition: opacity .25s ease; }
 .shop-scene.walk .shop-in::after { opacity: .85; }
 /* 📤 📥 공유 파일 (js/itemshare.js) */
